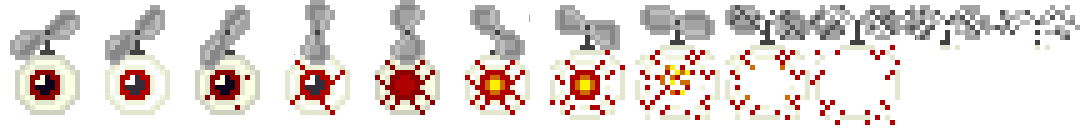
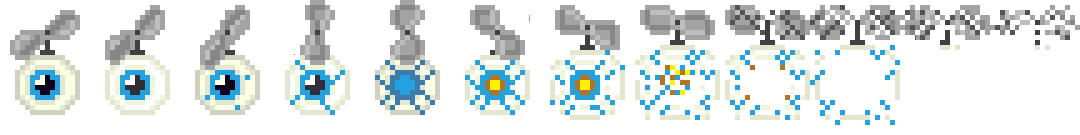
Update enemy and tower assets; refactor game initialization for improved performance
- Updated existing enemy images and added new assets including fireball and logo images.
- Introduced additional unused tower images for future use.
- Refactored game initialization logic to enhance aspect ratio handling and improve rendering quality.
- Adjusted tower scale and attack range visuals for better gameplay clarity.

diff --git a/client/src/index.ts b/client/src/index.ts
@@ -16,9 +16,8 @@ if (telegramService.isTelegramWebApp()) {
 
 // Добавляем задержку перед инициализацией игры для Telegram
 const initGame = () => {
-    // Определяем базовое разрешение для pixel art режима (9:16)
-    const BASE_WIDTH = 512;
-    const BASE_HEIGHT = 912; // Более высокое разрешение для лучшей детализации
+    // Базовое соотношение сторон игры (9:16)
+    const ASPECT_RATIO = 9/16;
 
     // Определяем размеры игры на основе Telegram Web App viewport
     const viewportWidth = telegramService.getViewportWidth();
@@ -27,14 +26,14 @@ const initGame = () => {
     // Определяем размеры игры
     let gameWidth, gameHeight;
 
-    if (viewportWidth / viewportHeight > 16/9) {
+    if (viewportWidth / viewportHeight > ASPECT_RATIO) {
         // Широкий экран - подгоняем по высоте
         gameHeight = viewportHeight;
-        gameWidth = viewportHeight * 16/9;
+        gameWidth = viewportHeight * ASPECT_RATIO;
     } else {
         // Узкий экран - подгоняем по ширине
         gameWidth = viewportWidth;
-        gameHeight = viewportWidth * 9/16;
+        gameHeight = viewportWidth / ASPECT_RATIO;
     }
 
     // Прикрепляем элемент контейнера к body для исправления позиционирования
@@ -55,11 +54,11 @@ const initGame = () => {
     const config: Phaser.Types.Core.GameConfig = {
         type: Phaser.AUTO,
         scale: {
-            mode: Phaser.Scale.RESIZE,  // Используем RESIZE для динамического изменения размера
+            mode: Phaser.Scale.RESIZE,  // Используем RESIZE вместо FIT для Telegram Web App
             autoCenter: Phaser.Scale.CENTER_BOTH,
             parent: 'game-container',
-            width: BASE_WIDTH,
-            height: BASE_HEIGHT,
+            width: gameWidth,
+            height: gameHeight,
             // Add more detailed resize handling
             resizeInterval: 200,  // Check for resize less frequently to reduce performance impact
             min: {
@@ -75,10 +74,10 @@ const initGame = () => {
         },
         scene: [BootScene, MenuScene, GameScene, InitialUpgradesShopScene, EmblemsShopScene],
         backgroundColor: '#ffffff',
-        // Modify render settings for pixel art
+        // Modify render settings to fix blurry text
         render: {
-            pixelArt: true,  // Enable pixelArt for crisp pixel rendering
-            antialias: false,  // Disable antialiasing for pixel art
+            pixelArt: true,  // Enable pixelArt to prevent anti-aliasing
+            antialias: false,  // Disable antialiasing for sharper text
             roundPixels: true,  // Enable roundPixels for crisp rendering
             clearBeforeRender: true,
             powerPreference: 'high-performance',
@@ -105,7 +104,7 @@ const initGame = () => {
 
     // Instead, set canvas properties directly after the game is created
     if (gameInstance.canvas) {
-        // Set crisp rendering CSS properties for pixel art
+        // Set crisp rendering CSS properties
         gameInstance.canvas.style.imageRendering = 'pixelated';
         gameInstance.canvas.style.imageRendering = 'crisp-edges';
         
@@ -122,36 +121,15 @@ const initGame = () => {
         // Обновляем размеры игры с сохранением соотношения сторон
         let newGameWidth, newGameHeight;
         
-        if (newWidth / newHeight > 16/9) {
+        if (newWidth / newHeight > ASPECT_RATIO) {
             newGameHeight = newHeight;
-            newGameWidth = newHeight * 16/9;
+            newGameWidth = newHeight * ASPECT_RATIO;
         } else {
             newGameWidth = newWidth;
-            newGameHeight = newWidth * 9/16;
+            newGameHeight = newWidth / ASPECT_RATIO;
         }
         
-        // Целочисленное масштабирование для pixel art
-        const scale = Math.max(1, Math.floor(newGameWidth / BASE_WIDTH));
-        
-        // Обновляем размер игры
         gameInstance.scale.resize(newGameWidth, newGameHeight);
-        
-        // Принудительно привязываем к пиксельной сетке для всех сцен
-        gameInstance.scale.emit('pixel-art-resize', { width: newGameWidth, height: newGameHeight, scale: scale });
-    });
-    
-    // Добавляем глобальный обработчик для всех сцен для обеспечения pixel art
-    gameInstance.events.on('prestep', () => {
-        // Убедимся, что все объекты привязаны к целым пикселям
-        if (gameInstance.scene.scenes) {
-            gameInstance.scene.scenes.forEach(scene => {
-                if (scene.cameras && scene.cameras.main) {
-                    // Принудительно выравниваем координаты камеры по целым пикселям
-                    scene.cameras.main.scrollX = Math.round(scene.cameras.main.scrollX);
-                    scene.cameras.main.scrollY = Math.round(scene.cameras.main.scrollY);
-                }
-            });
-        }
     });
 };
 

diff --git a/client/src/objects/towers/Tower.ts b/client/src/objects/towers/Tower.ts
@@ -11,8 +11,8 @@ class Tower extends Phaser.Physics.Arcade.Sprite {
     private static readonly COLOR_CIRCLE = 0xffffff; // Голубой цвет для круга
     
     // Константа масштаба башни
-    private static readonly TOWER_SCALE = 0.7;
-    private static readonly TOWER_ANGLE = -3;
+    private static readonly TOWER_SCALE = 0.8;
+    private static readonly TOWER_ANGLE = -0;
     // Константа для базового радиуса атаки (в % от высоты экрана)
 
     // We'll keep these properties for compatibility, but they'll be wrappers
@@ -151,10 +151,10 @@ class Tower extends Phaser.Physics.Arcade.Sprite {
         
         // Draw with more visible style 
         this.attackRangeCircle.lineStyle(3, Tower.COLOR_CIRCLE, 0.7);
-        this.attackRangeCircle.fillStyle(Tower.COLOR_CIRCLE, 0.2);
+        // Remove fillStyle and fillCircle to have only the outline
         
         const center = this.getPosition();
-        this.attackRangeCircle.fillCircle(center.x, center.y, this.attackRange);
+        // this.attackRangeCircle.fillCircle(center.x, center.y, this.attackRange);
         this.attackRangeCircle.strokeCircle(center.x, center.y, this.attackRange);
         this.attackRangeCircle.setVisible(true);
     }
@@ -178,10 +178,10 @@ class Tower extends Phaser.Physics.Arcade.Sprite {
         
         // Draw with more visible style
         this.attackRangeCircle.lineStyle(3, Tower.COLOR_CIRCLE, 0.7); 
-        this.attackRangeCircle.fillStyle(Tower.COLOR_CIRCLE, 0.2);
+        // Remove fillStyle and fillCircle to have only the outline
         
         const center = this.getPosition();
-        this.attackRangeCircle.fillCircle(center.x, center.y, this.attackRange);
+        // this.attackRangeCircle.fillCircle(center.x, center.y, this.attackRange);
         this.attackRangeCircle.strokeCircle(center.x, center.y, this.attackRange);
         this.attackRangeCircle.setVisible(true);
     }

diff --git a/client/src/objects/backgrounds/MysticalBackground.ts b/client/src/objects/backgrounds/MysticalBackground.ts
@@ -10,7 +10,9 @@ export class MysticalBackground {
     private stars: Phaser.GameObjects.Image[] = [];
     private perimeterGlow: Phaser.GameObjects.Graphics | null = null;
     private isDestroyed: boolean = false;
-    private islandScale: number = 0.5;
+    private islandScale: number = 0.6;
+    private mainIslandXOffset: number = 1.08;
+    private mainIslandYOffset: number = 1.15;
 
     constructor(scene: Phaser.Scene) {
         this.scene = scene;
@@ -138,7 +140,7 @@ export class MysticalBackground {
      */
     private addMainIslandToScene(center: { x: number; y: number }): void {
         // Создаем остров под башней
-        this.mainIsland = this.scene.add.image(center.x, center.y * 1.1, 'mainIsland');
+        this.mainIsland = this.scene.add.image(center.x * this.mainIslandXOffset, center.y * this.mainIslandYOffset, 'mainIsland');
         // Устанавливаем масштаб острова
         const scale = this.islandScale * this.screenManager.getGameScale(); // НЕ МЕНЯТЬ
         this.mainIsland.setScale(scale);
@@ -592,7 +594,7 @@ export class MysticalBackground {
         // Обновляем главный остров
         if (this.mainIsland) {
             const center = this.screenManager.getGameViewCenter();
-            this.mainIsland.setPosition(center.x, center.y * 1.1); // Сохраняем смещение вниз
+            this.mainIsland.setPosition(center.x * this.mainIslandXOffset, center.y * this.mainIslandYOffset); // Сохраняем смещение вниз
             const scale = this.islandScale * this.screenManager.getGameScale();
             this.mainIsland.setScale(scale);
         }
